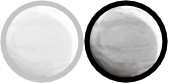
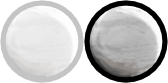
möm

diff --git a/custom.css b/custom.css
@@ -198,11 +198,11 @@
 }
 
 .custom .stick.pressed.left {
-    background-position-x: -96px;
+    background-position-x: -168px;
 }
 
 .custom .stick.pressed.right {
-    background-position-x: -192px;
+    background-position-x: -168px;
 }
 
 .custom .stick.left {
